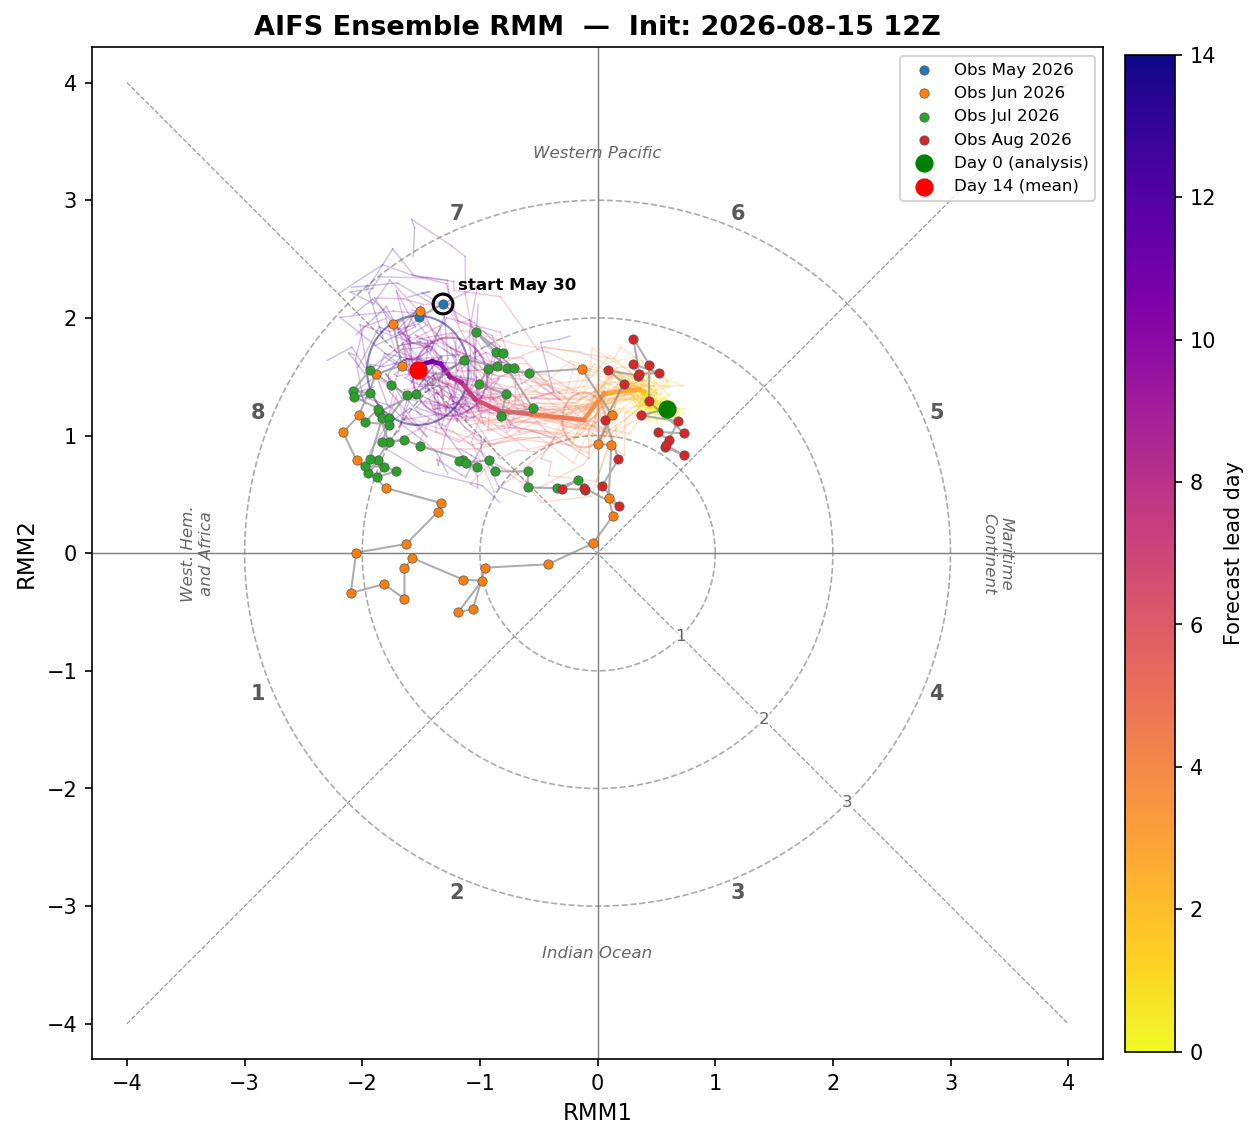
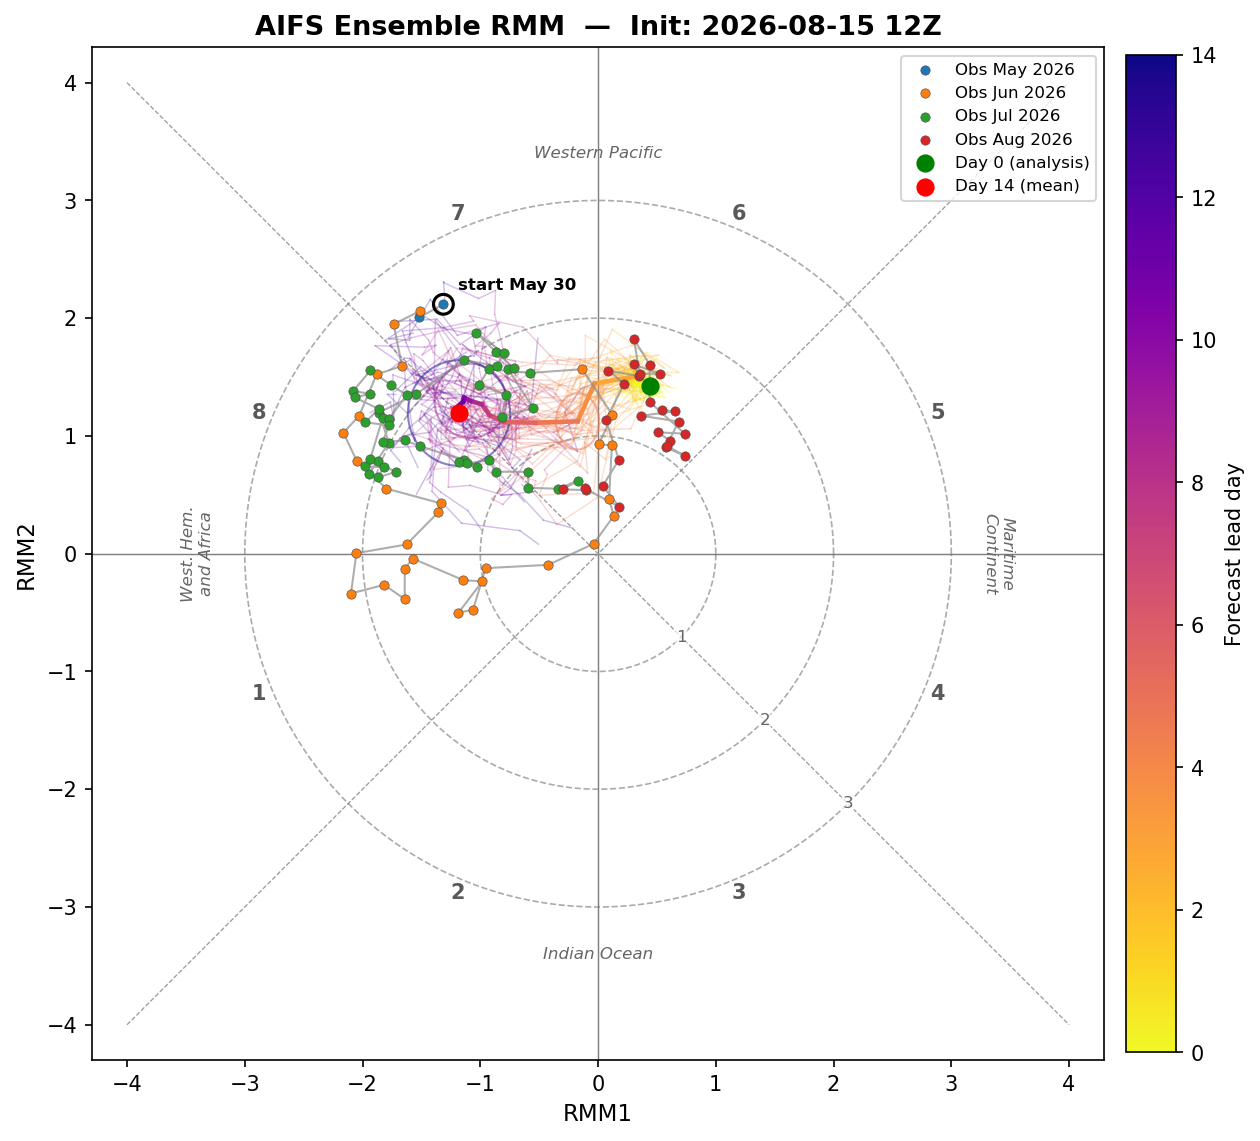
AIFS RMM: fix tp units (kg m-2, not m — pseudo-OLR was x1000); publish full-projection 00Z
AIFS open-data tp arrives in kg m-2 (= mm); the loader assumed metres and
scaled x1000, exploding the precip channel (rmm1 range hit +463). Loader
is now unit-aware (only a genuine metre field gets x1000). Re-rendered
20260816 00Z + 20260815 12Z from cache with the corrected channel and
re-recorded their v2 ensmean_history entries (the polluted test entry is
overwritten). sfs.html: cache-buster on mjo_rmm.webp, bumped by the
monthly runner; runner commit identity corrected to scorvec@outlook.com.

diff --git a/mjo.html b/mjo.html
@@ -82,7 +82,7 @@
   degrees of the official BoM RMM phase).</p>
     <p class="lede" style="margin:0.5rem 0 1.2rem">Latest init: <strong>2026-08-16 00Z</strong>. Drag the slider to step through successive forecast runs (oldest → latest) and watch the predicted MJO track evolve.</p>
   <iframe class="anim-embed" src="sst_anim.html?embed=1&amp;base=assets&amp;manifest=mjo/rmm_manifest.json&amp;region=mjo" title="AIFS-ENS RMM forecast — successive runs animation" loading="lazy"></iframe>
-  <p class="meta">Updated 2026-08-16 11:52Z · Auto-generated from the AIFS-ENS open-data
+  <p class="meta">Updated 2026-08-16 12:00Z · Auto-generated from the AIFS-ENS open-data
   feed. Methodology: NOAA CPC / Wheeler &amp; Hendon (2004), EOFs from NOAA OLR +
   NCEP wind with the 120-day low-frequency filter removed; pseudo-OLR from
   &minus;standardized daily precip vs an ERA5 1991&ndash;2020 band climatology.</p>

diff --git a/sfs.html b/sfs.html
@@ -270,7 +270,7 @@
     Teal spaghetti: members (every other day); red: ensemble mean (dashed grey:
     wind-only reference); black: the observed track from the <em>official</em>
     BoM RMM index.</p>
-    <img src="assets/sfs/mjo_rmm.webp" alt="SFS beta MJO RMM phase-space forecast, 31 members"
+    <img src="assets/sfs/mjo_rmm.webp?v=202608161" alt="SFS beta MJO RMM phase-space forecast, 31 members"
       style="width:100%;max-width:820px;display:block;margin:0 auto;border-radius:8px" loading="lazy">
     <div class="chart-card-footer">
       <span class="chart-sources">SFS beta atm_daily zarr, UGRD 850/200 hPa +

diff --git a/scripts/mjo/src/rmm.py b/scripts/mjo/src/rmm.py
@@ -86,6 +86,10 @@ def load_aifs_tp(path: Path) -> xr.DataArray:
     if "tp" not in ds:
         raise ValueError(f"Variable tp not found in {path}")
     da = ds["tp"]
+    # normalise to mm: ECMWF open-data AIFS tp arrives as kg m-2 (= mm);
+    # only a genuinely metre-unit field needs the x1000
+    if da.attrs.get("units", "").strip() in ("m", "meters", "metre", "metres"):
+        da = da * 1000.0
     if "number" in da.dims:
         da = da.chunk({"number": 1})
     da = da.sortby("latitude").sel(latitude=slice(-LAT_PAD, LAT_PAD))
@@ -240,7 +244,7 @@ def compute_rmm(
                     h0, h1 = int(hours[k]), int(hours[k + 1])
                     v1 = tp_lm[hmap[h1]]
                     v0 = tp_lm[hmap[h0]] if h0 in hmap else 0.0
-                    rates[k] = (v1 - v0) * 1000.0 * 24.0 / (h1 - h0)   # mm/day
+                    rates[k] = (v1 - v0) * 24.0 / (h1 - h0)   # mm/day (tp already mm)
                 rates[-1] = rates[-2]
                 di = np.minimum(doy, 366) - 1
                 phat = (rates - prcp_mu[di]) / prcp_sig[di][:, None]
